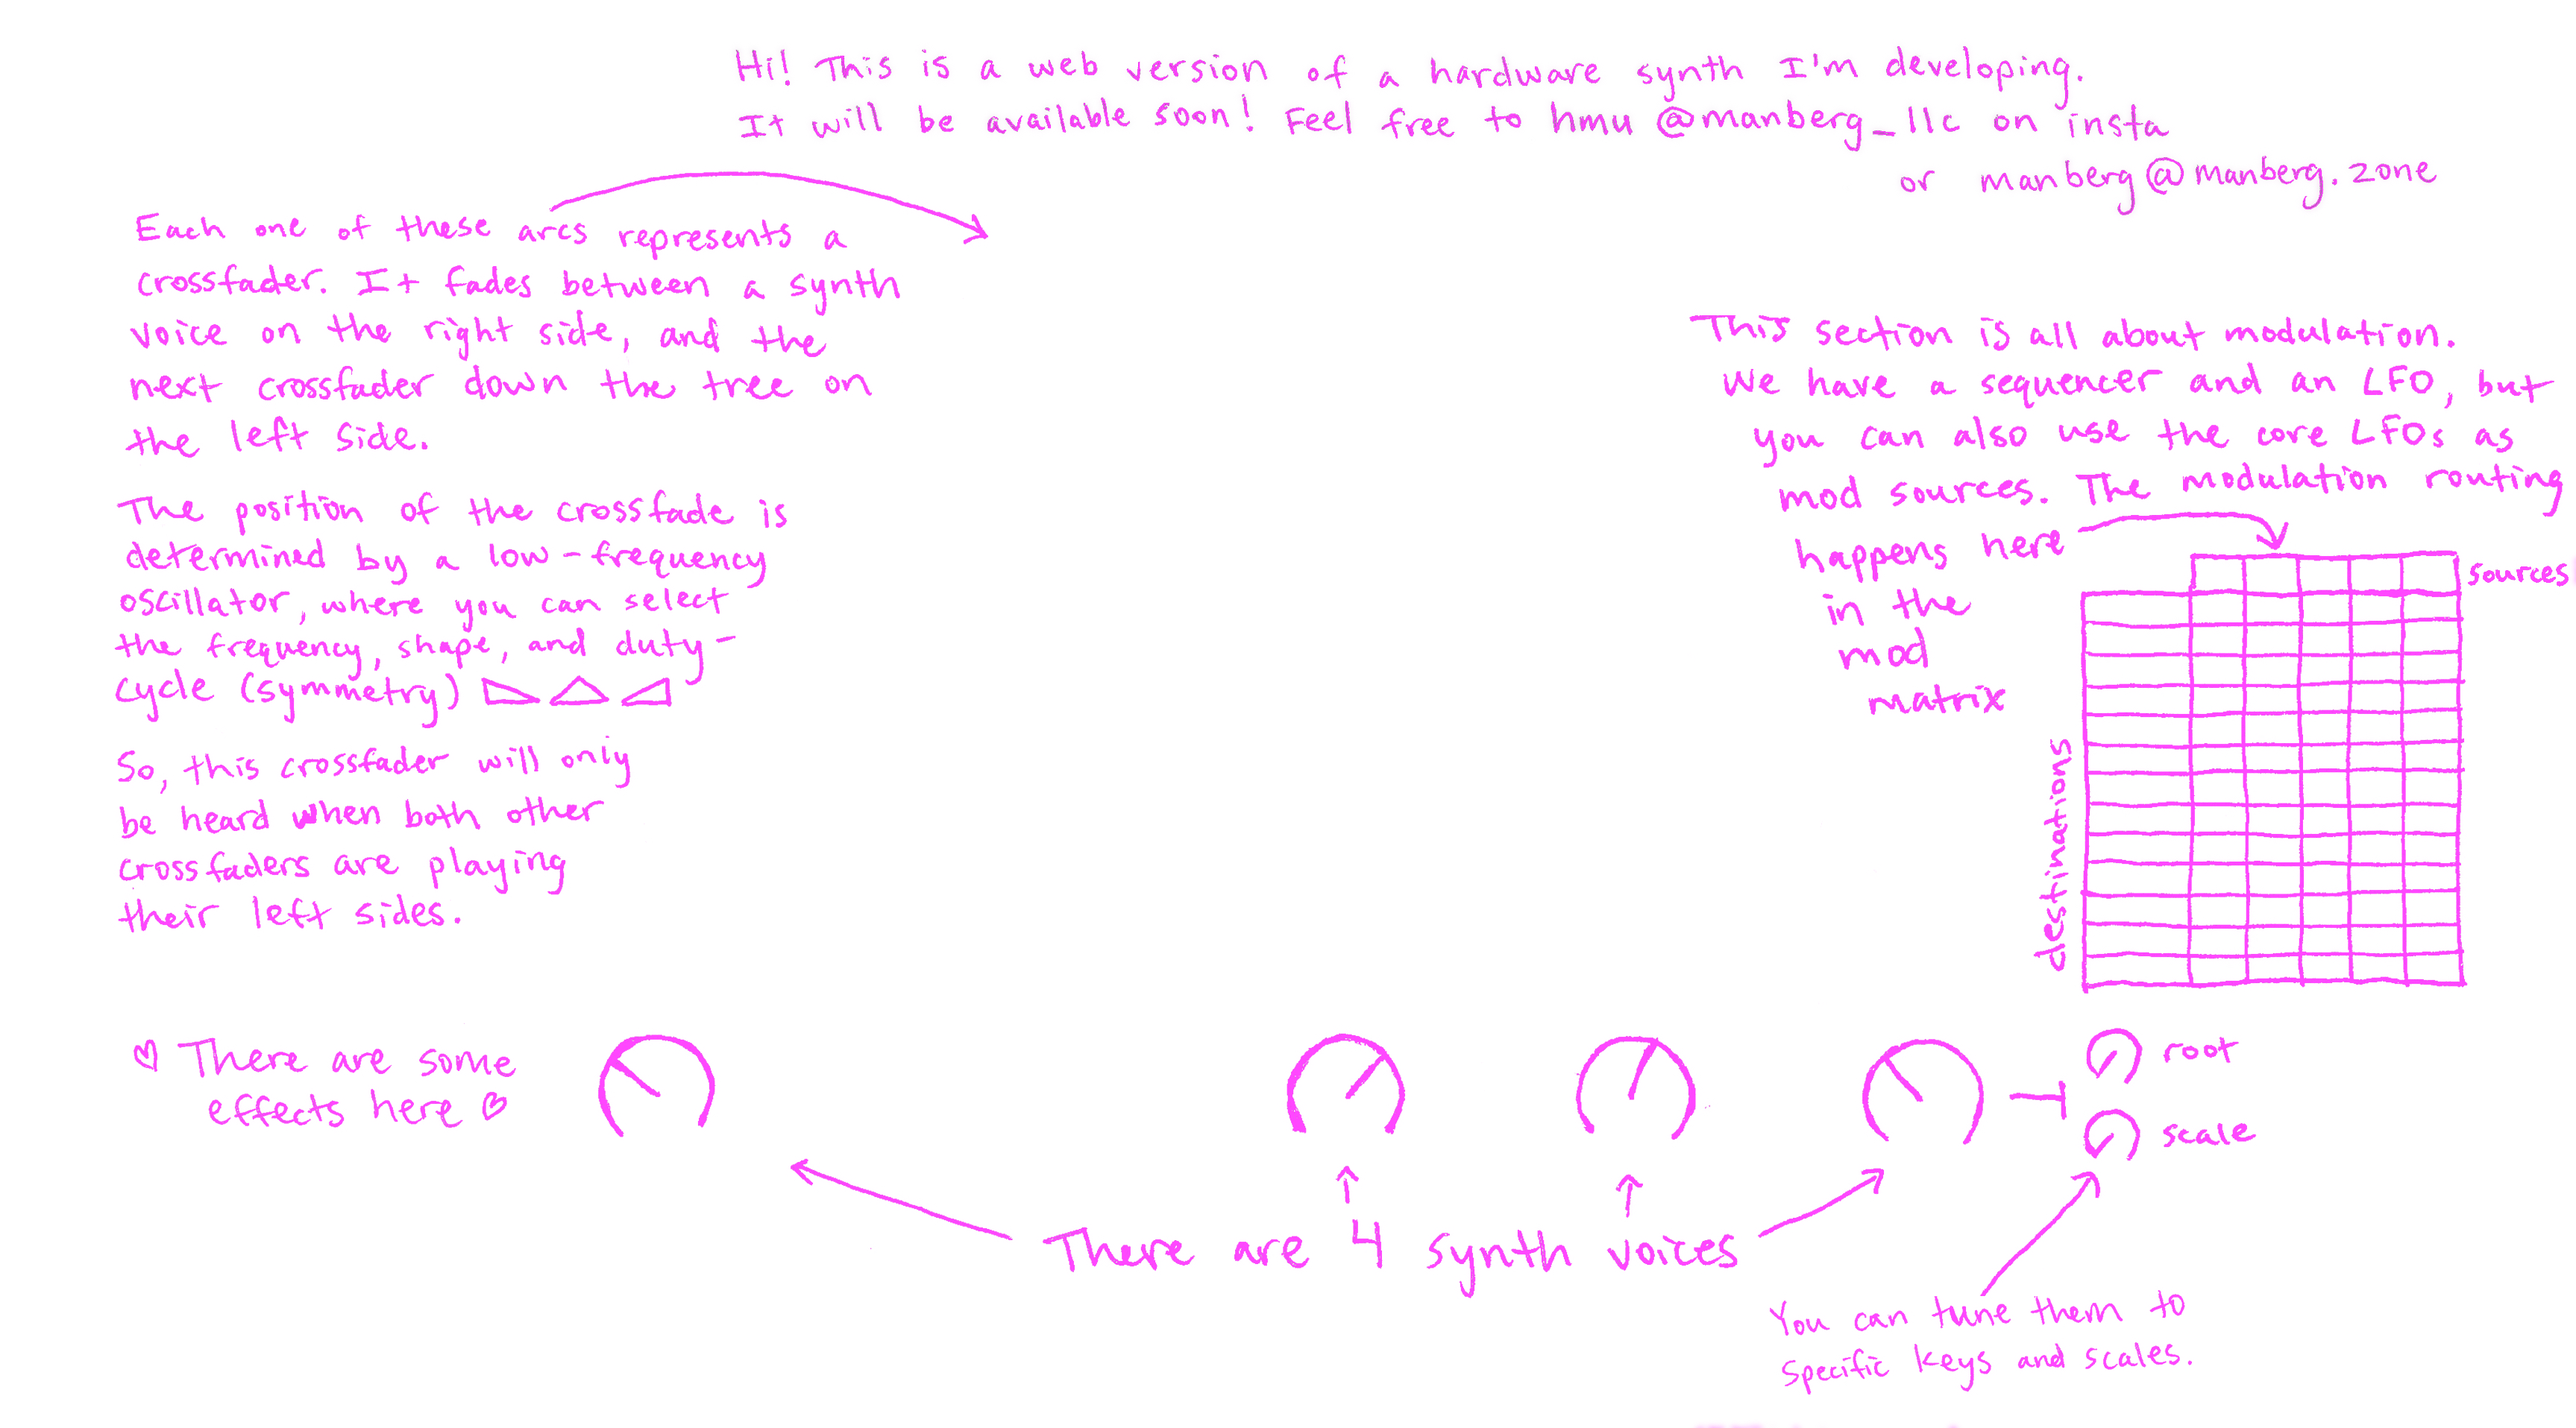
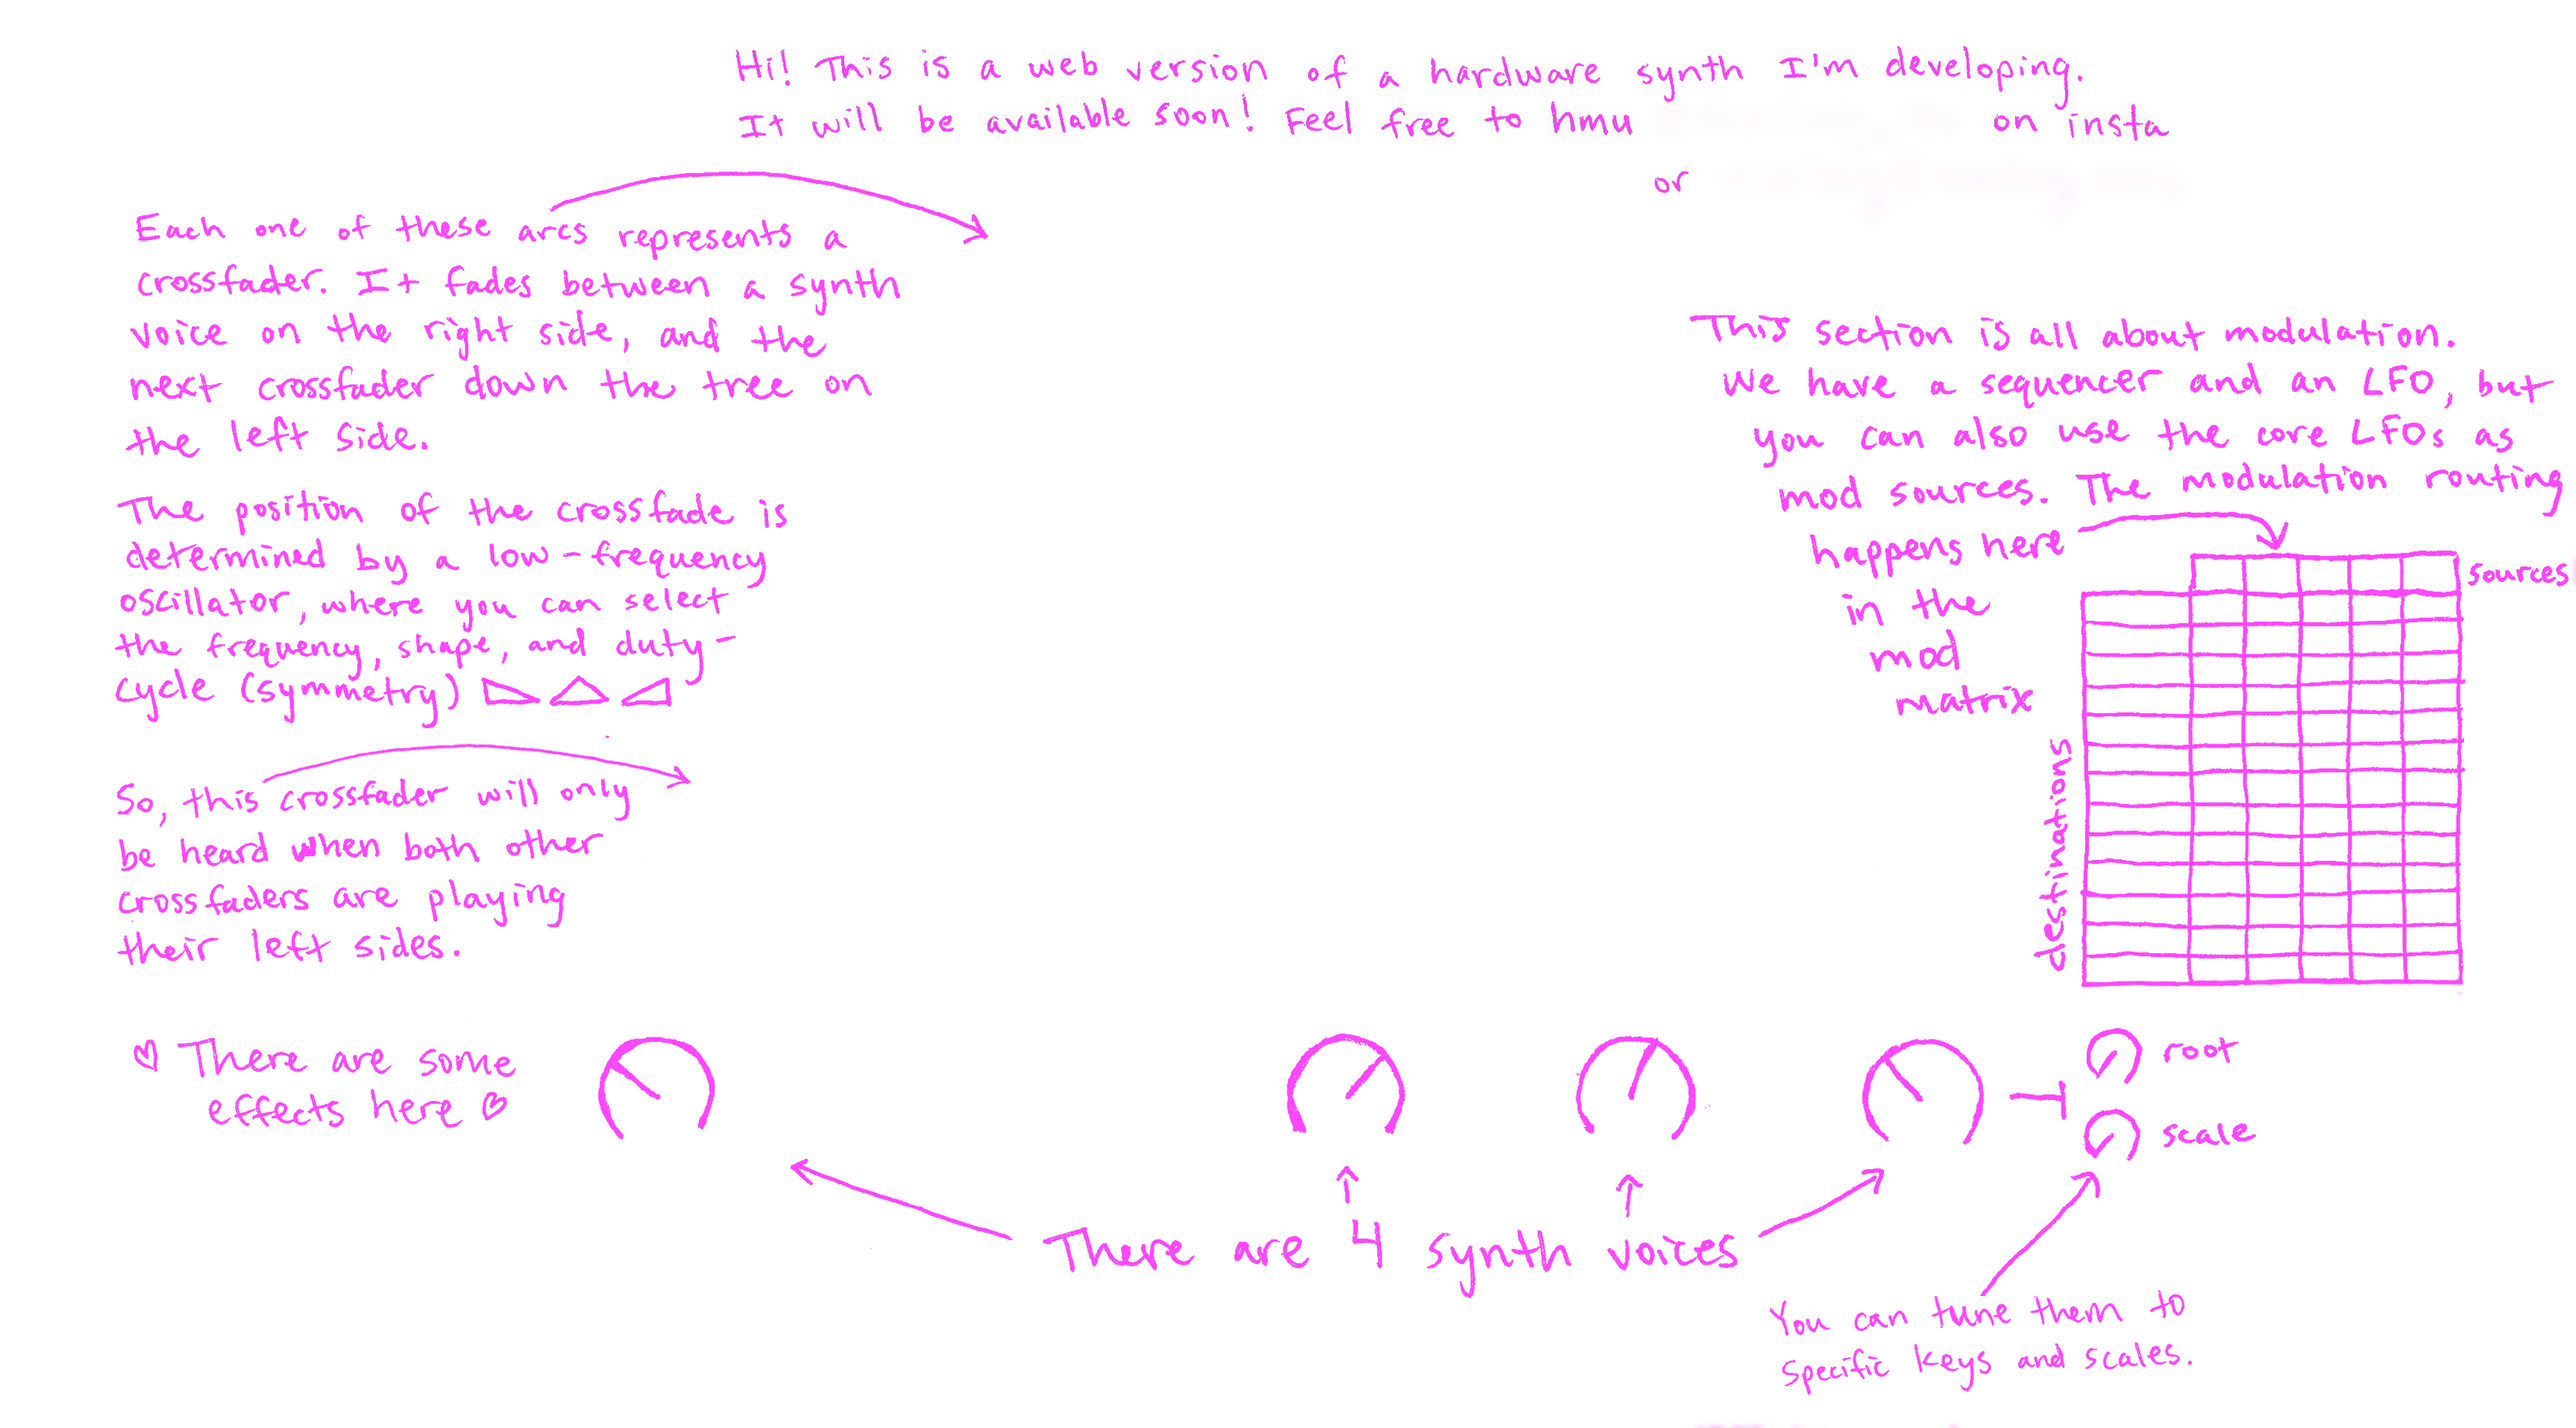
improve info text

diff --git a/app/page.tsx b/app/page.tsx
@@ -391,6 +391,9 @@ export default function LAMBApp() {
     [playing]
   )
 
+  const [instaLinkSrc, setInstaLinkSrc] = useState<string>('/insta-pink.png')
+  const [emailLinkSrc, setEmailLinkSrc] = useState<string>('/email-pink.png')
+
   const content = useMemo(
     () => (
       <div
@@ -420,10 +423,32 @@ export default function LAMBApp() {
         <Image
           className={cn(styles.infoText, { [styles.active]: showInfo })}
           src="/info-text.png"
-          alt="Info"
+          alt="Hi! This is a web version of a hardware synthesizer I'm developing. It will be available soon! Feel free to hit me up @manberg_llc on Instagram or manberg@manberg.zone. Each one of these arcs represents a crossfader. It fades between a synthesizer voice on the right side, and the next crossfader down the tree on the left side. The position of the crossfade is determined by a low frequency oscillator, where you can select the frequency, shape, and duty cycle (symmetry). So, the bottom crossfader will only be heard when both other crossfaders are playing their left sides. The right section is all about modulation. We have a sequencer and an LFO, but you can also use the core LFO's as mod sources. The modulation routing happens in the mod matrix. There are four synthesizer voices. You can tune them to specific keys and scales."
           width={1727}
           height={958}
         />
+        <a href="https://www.instagram.com/manberg_llc/" target="_blank" rel="noopener noreferrer">
+          <Image
+            className={cn(styles.instaLink, { [styles.active]: showInfo })}
+            src={instaLinkSrc}
+            alt="Instagram: @manberg_llc"
+            width={208.5}
+            height={39.5}
+            onMouseEnter={() => setInstaLinkSrc('/insta-blue.png')}
+            onMouseLeave={() => setInstaLinkSrc('/insta-pink.png')}
+          />
+        </a>
+        <a href="mailto:manberg@manberg.zone" target="_blank" rel="noopener noreferrer">
+          <Image
+            className={cn(styles.emailLink, { [styles.active]: showInfo })}
+            src={emailLinkSrc}
+            alt="Email: manberg@manberg.zone"
+            width={307}
+            height={43.5}
+            onMouseEnter={() => setEmailLinkSrc('/email-blue.png')}
+            onMouseLeave={() => setEmailLinkSrc('/email-pink.png')}
+          />
+        </a>
 
         {/* container graphic */}
         <TiltContainer maxTilt={1} perspective={700}>
@@ -946,6 +971,8 @@ export default function LAMBApp() {
       volume,
       updateVolume,
       showInfo,
+      instaLinkSrc,
+      emailLinkSrc,
     ]
   )
 

diff --git a/app/page.module.css b/app/page.module.css
@@ -386,13 +386,32 @@
   opacity: 1;
 }
 
-.infoText {
+.infoText,
+.instaLink,
+.emailLink {
   position: absolute;
   pointer-events: none;
   opacity: 0;
   transition: opacity var(--transition-time) ease-in-out;
 }
 
-.infoText.active {
+.infoText.active,
+.instaLink.active,
+.emailLink.active {
   opacity: 1;
+}
+
+.instaLink,
+.emailLink {
+  pointer-events: all;
+}
+
+.instaLink {
+  top: 65.5px;
+  left: 1110px;
+}
+
+.emailLink {
+  top: 107.5px;
+  left: 1156.5px;
 }
